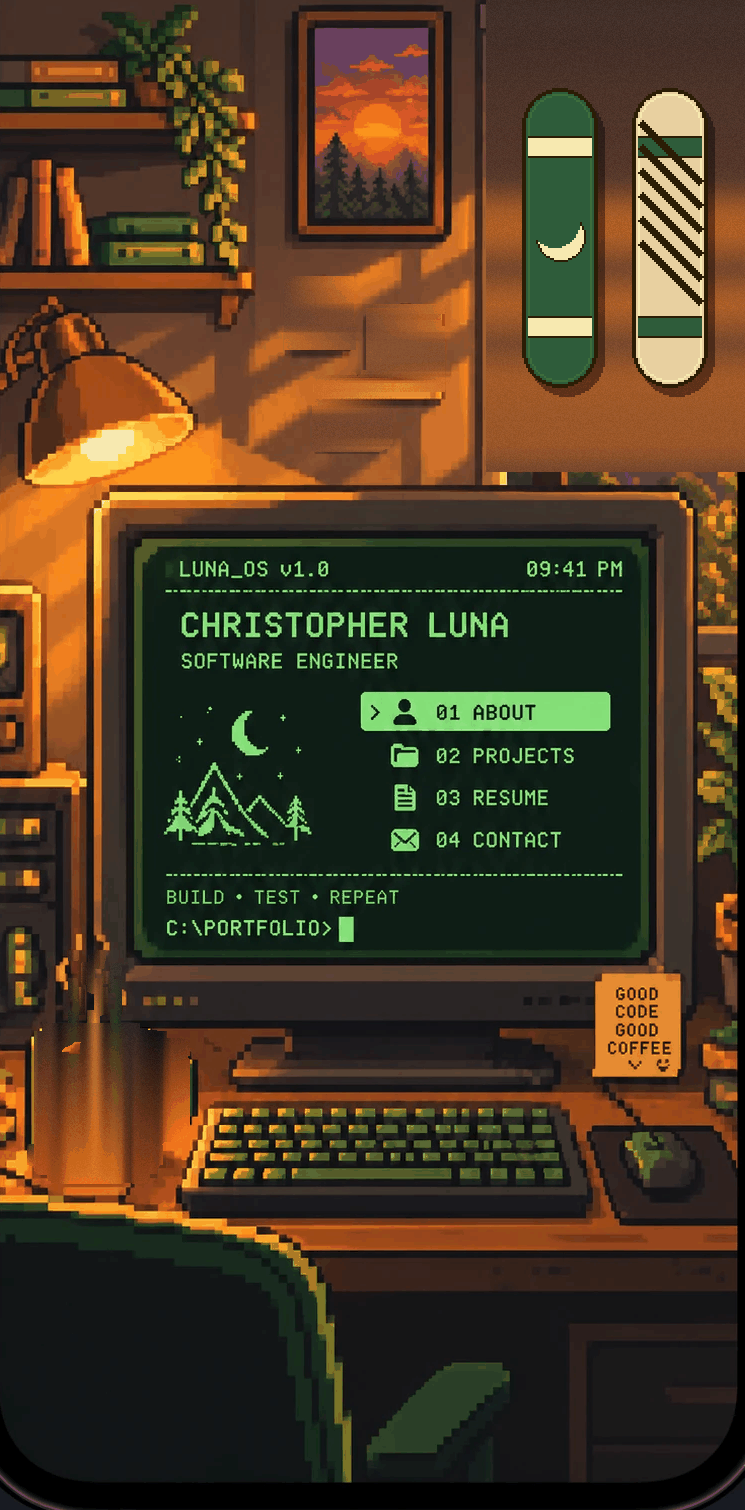
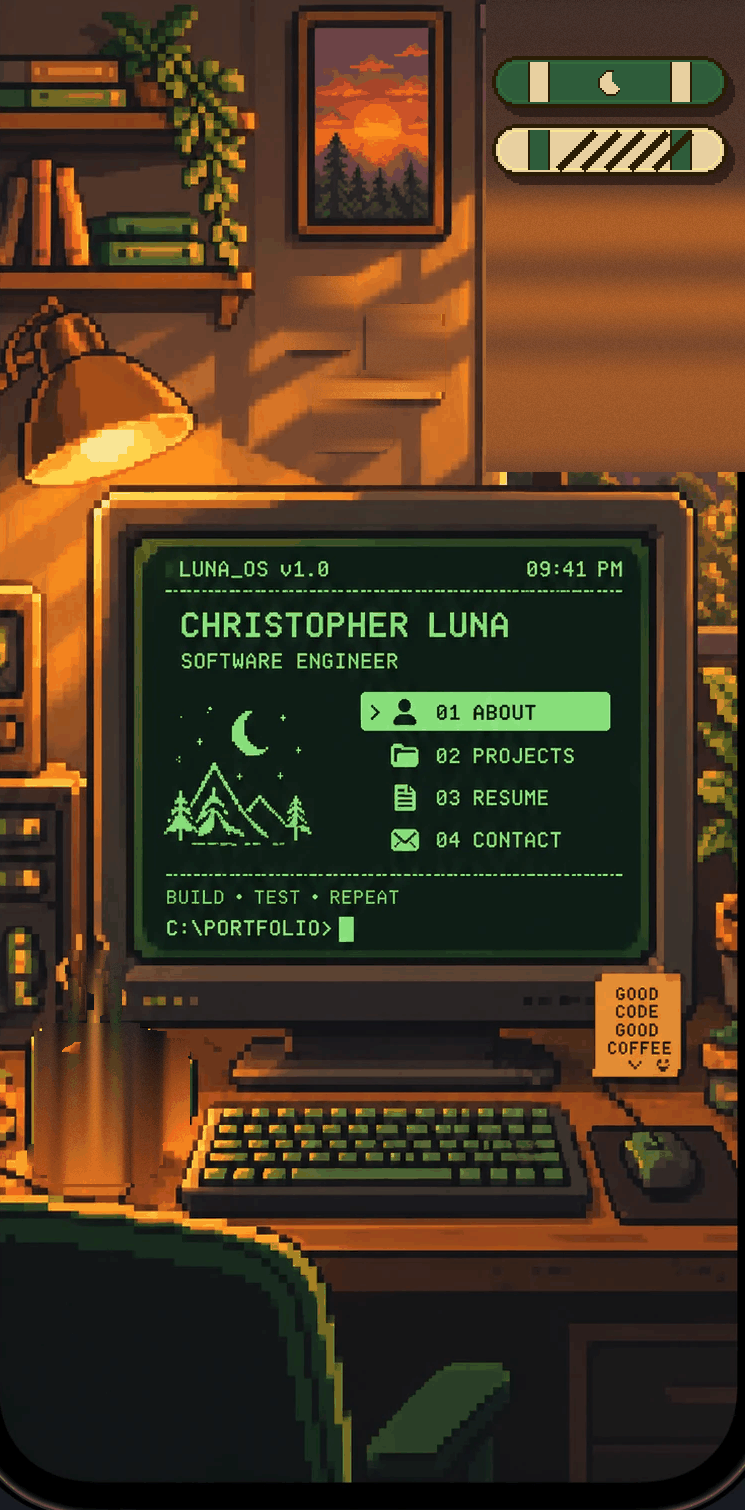
Fill the window standing, zoom in seated, decks above the monitor
Standing is now the whole painting cover-fitted to the viewport (no dark
room around it); sitting down zooms in until the painted screen stands
60% of the viewport tall, capped by width on phones, centered on the
monitor, clamped inside the painting so nothing blank shows. The crop
always starts just below the two skateboard decks, which now hang
horizontally, stacked above the monitor, so they are in view standing
and out of view seated.

Claude-Session: https://claude.ai/code/session_01UiWmbbp8LMH8KpxXcNtLpq

Changed region(s): [[0.6483, 0.0311, 0.9879, 0.2801], [0.0926, 0.2801, 0.1852, 0.3113]]

diff --git a/components/cinema/CinemaScene.tsx b/components/cinema/CinemaScene.tsx
@@ -26,11 +26,14 @@ interface LayoutArt {
   spritesPct?: Record<string, PctBox>;
   spriteFiles?: Record<string, string>;
   antPct?: { from: number[]; to: number[] };
+  decksPct?: PctBox[];
 }
 
 const SIT_MS = 1000;
-/** Standing, the art sits this much smaller than its seated cover-fit, with the dark room around it. */
-const STAND_SCALE: Record<LayoutKey, number> = { desktop: 0.78, mobile: 0.84 };
+/** Seated, the painted screen stands this tall relative to the viewport. */
+const SEAT_FRACTION: Record<LayoutKey, number> = { desktop: 0.6, mobile: 0.55 };
+/** Seated, the crop starts at least this far (art px) below the decks, so they stay out of view. */
+const DECK_CLEARANCE = 6;
 /** Progress at which the live OS takes over from the painted screen. */
 const SCREEN_ON_AT = 0.9;
 const HINT_DELAY_MS = 2200;
@@ -50,8 +53,8 @@ interface Stage extends Rect {
 const pickLayout = (vw: number, vh: number): LayoutKey =>
   vw > 0 && (vw < 900 || vh > vw * 1.15) ? "mobile" : "desktop";
 
-/** Seated at the desk: cover-fit the art, keeping the monitor as centered as the crop allows. */
-function seatedStage(art: LayoutArt, vw: number, vh: number): Stage {
+/** Standing back from the desk: the whole painting cover-fits the viewport, monitor as centered as the crop allows. */
+function standingStage(art: LayoutArt, vw: number, vh: number): Stage {
   const { width: W, height: H } = art.size;
   const [fx, fy] = art.focalPoint;
   const scale = Math.max(vw / W, vh / H);
@@ -62,13 +65,27 @@ function seatedStage(art: LayoutArt, vw: number, vh: number): Stage {
   return { x, y, w, h, scale };
 }
 
-/** Standing back from the desk: the seated framing scaled down about the viewport center. */
-function standingStage(art: LayoutArt, layout: LayoutKey, vw: number, vh: number): Stage {
-  const s = seatedStage(art, vw, vh);
-  const k = STAND_SCALE[layout];
-  const cx = vw / 2;
-  const cy = vh / 2;
-  return { x: cx - (cx - s.x) * k, y: cy - (cy - s.y) * k, w: s.w * k, h: s.h * k, scale: s.scale * k };
+/**
+ * Seated at the desk: zoomed in so the painted screen stands SEAT_FRACTION of the
+ * viewport tall, centered on it, but never showing the decks above the monitor and
+ * never leaving the painting (no blank edges).
+ */
+function seatedStage(art: LayoutArt, layout: LayoutKey, vw: number, vh: number): Stage {
+  const { width: W, height: H } = art.size;
+  const [sx0, sy0, sx1, sy1] = art.screenPx;
+  const cover = Math.max(vw / W, vh / H);
+  // tall enough to read, but never wider than the viewport (phones are narrow)
+  const fit = Math.min((SEAT_FRACTION[layout] * vh) / (sy1 - sy0), (0.94 * vw) / (sx1 - sx0));
+  const scale = Math.max(cover * 1.12, fit);
+  const cropW = vw / scale;
+  const cropH = vh / scale;
+  const deckBottom = (art.decksPct ?? []).reduce((m, d) => Math.max(m, ((d.top + d.height) / 100) * H), 0);
+  const minTop = deckBottom ? deckBottom + DECK_CLEARANCE : 0;
+  let top = Math.max(minTop, (sy0 + sy1) / 2 - cropH / 2);
+  top = Math.min(top, H - cropH);
+  let left = (sx0 + sx1) / 2 - cropW / 2;
+  left = Math.min(Math.max(0, left), W - cropW);
+  return { x: -left * scale, y: -top * scale, w: W * scale, h: H * scale, scale };
 }
 
 const lerp = (a: number, b: number, t: number) => a + (b - a) * t;
@@ -101,9 +118,10 @@ const prefersReducedMotion = () => window.matchMedia("(prefers-reduced-motion: r
 type Egg = "mug" | "note1" | "note2" | "note3" | "lamp" | "plant";
 
 /**
- * v2 — the lo-fi pixel desk. You arrive standing back in the dark room with
- * the painted desk in front of you. Clicking it sits you down: the art
- * grows to fill the window and the live LUNA_OS takes over the glass. Seated,
+ * v2 — the lo-fi pixel desk. You arrive standing back, the whole painted room
+ * filling the window. Clicking the desk sits you down: the view zooms in on
+ * the monitor (the decks above it slide out of frame) and the live LUNA_OS
+ * takes over the glass. Seated,
  * the mug, lamp, plant and wall notes are little easter eggs. ESC,
  * [ STAND UP ] or clicking the room stands you back up.
  */
@@ -238,7 +256,7 @@ export default function CinemaScene() {
   /* ---------------- geometry ---------------- */
 
   const ready = vp.w > 0;
-  const stage = ready ? lerpStage(standingStage(art, layout, vp.w, vp.h), seatedStage(art, vp.w, vp.h), progress) : null;
+  const stage = ready ? lerpStage(standingStage(art, vp.w, vp.h), seatedStage(art, layout, vp.w, vp.h), progress) : null;
   const screen = stage ? screenRect(art, stage) : null;
   const screenOn = pose === "seated" || (pose === "sitting" && progress >= SCREEN_ON_AT);
 

diff --git a/components/cinema/cinema.css b/components/cinema/cinema.css
@@ -45,7 +45,7 @@
   inset: 0;
   z-index: 1;
   pointer-events: none;
-  box-shadow: inset 0 0 120px 36px rgba(11, 8, 7, 0.9);
+  box-shadow: inset 0 0 90px 10px rgba(11, 8, 7, 0.5); /* a touch of room darkness at the edges */
   transition: opacity 0.45s ease;
 }
 
@@ -56,7 +56,6 @@
 
 .cinema--standing .cinema__stage {
   cursor: pointer;
-  box-shadow: 0 30px 90px rgba(0, 0, 0, 0.75);
 }
 
 /* ---- props cut from the painting, each with a little easter egg ---- */

diff --git a/scripts/cinema-assets.py b/scripts/cinema-assets.py
@@ -157,7 +157,7 @@ class Painting:
 
 
 def deck(w, h, base, band, logo):
-    """Top-view deck silhouette at half resolution, scaled 2x for the chunky pixel look, hung vertically."""
+    """Top-view deck silhouette at half resolution, scaled 2x for the chunky pixel look, hung horizontally."""
     im = Image.new("RGBA", (w, h), (0, 0, 0, 0)); d = ImageDraw.Draw(im)
     d.rounded_rectangle([0, 0, w - 1, h - 1], radius=h // 2, fill=base, outline=OUTLINE, width=2)
     lighter = tuple(min(255, int(v * 1.18)) for v in base)
@@ -172,7 +172,7 @@ def deck(w, h, base, band, logo):
     if logo == "stripes":
         for i in range(int(w * 0.28), int(w * 0.72), 12):
             d.line([i, h - 4, i + h - 8, 4], fill=OUTLINE, width=3)
-    return im.resize((w * 2, h * 2), Image.NEAREST).rotate(90, expand=True)
+    return im.resize((w * 2, h * 2), Image.NEAREST)
 
 
 def compose(P, spec, prefix):
@@ -273,7 +273,7 @@ DESK_SPEC = {
     "wall_strips": [(756, 0, 848, 172), (482, 172, 504, 614)],
     "keep_boxes": [(505, 172, 1152, 745)],          # the monitor overlaps the window
     "plant_from": (1392, 376),                       # the big plant overlaps it too
-    "deck_size": (216, 54), "deck_at": [(1196, 66), (1338, 66)],
+    "deck_size": (150, 33), "deck_at": [(772, 14), (772, 96)],
 }
 d_sprites, d_decks = compose(desk, DESK_SPEC, "")
 save_pixel(desk.image(), f"{OUT}/desk.webp")
@@ -301,7 +301,7 @@ MOBILE_SPEC = {
     "wall_strips": [(455, 0, 485, 472)],
     "keep_boxes": [],
     "plant_from": None,
-    "deck_size": (150, 38), "deck_at": [(522, 88), (632, 88)],
+    "deck_size": (118, 26), "deck_at": [(492, 56), (492, 124)],
 }
 m_sprites, m_decks = compose(mob, MOBILE_SPEC, "m-")
 save_pixel(mob.image(), f"{OUT}/desk-mobile.webp")
